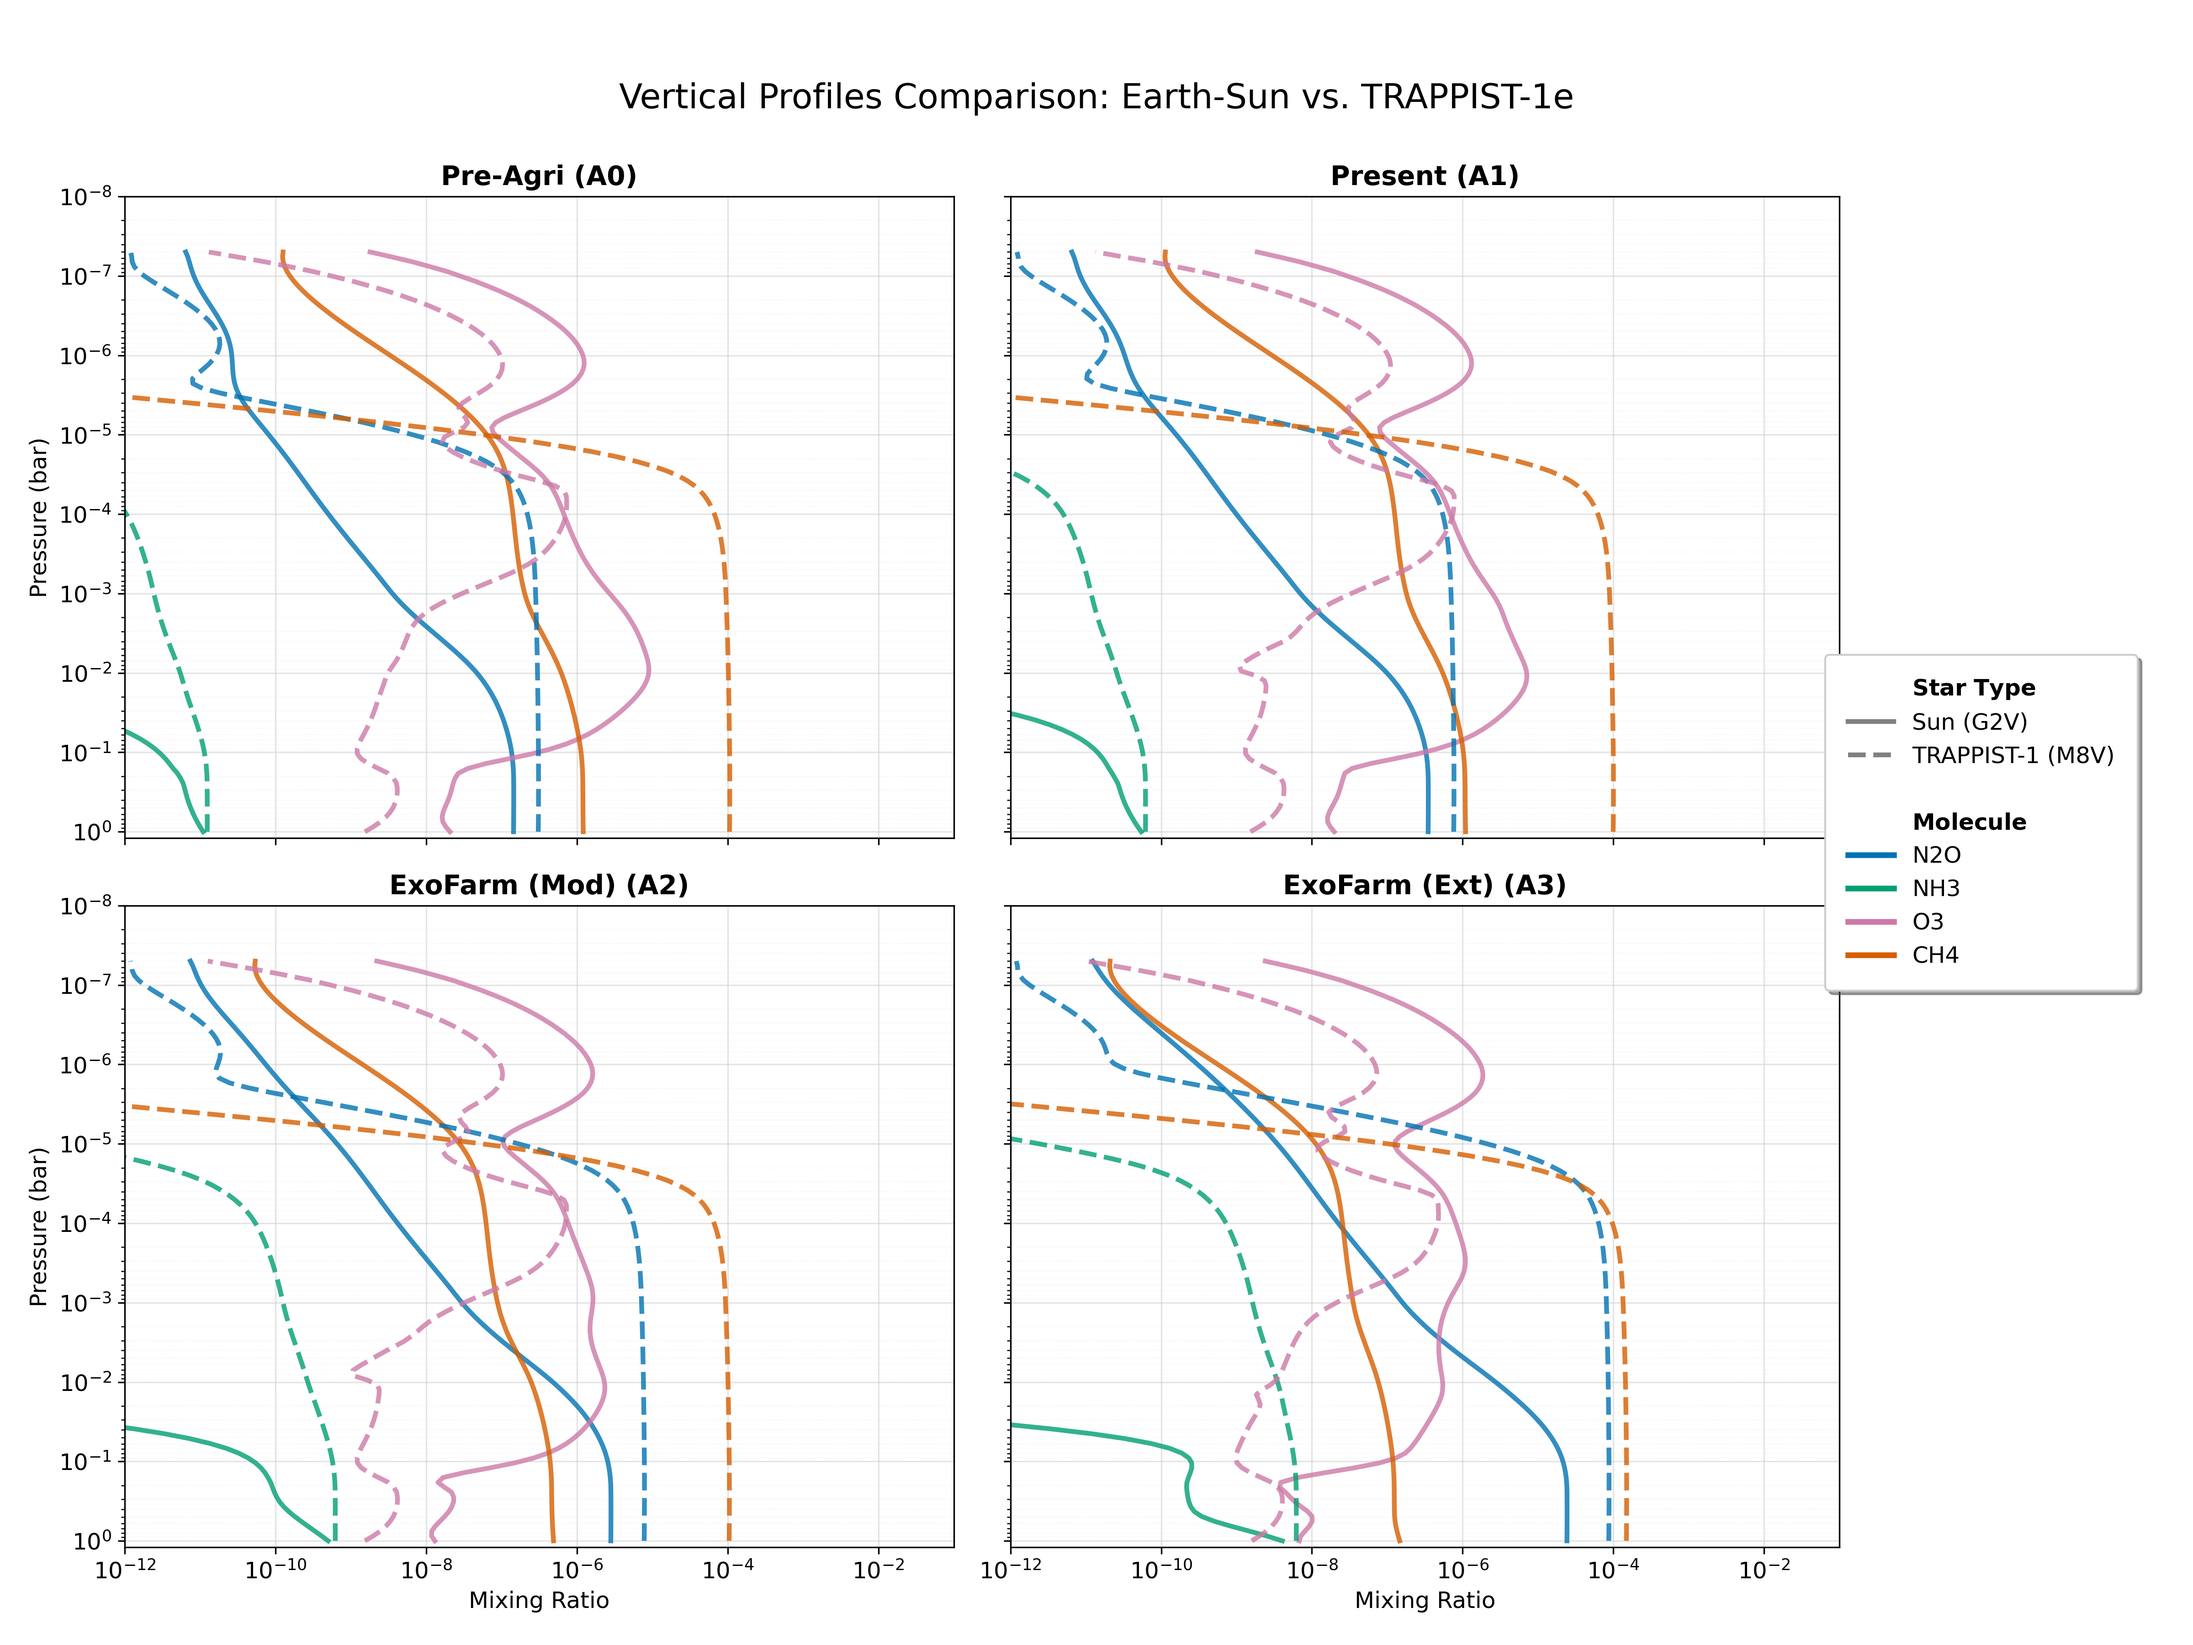
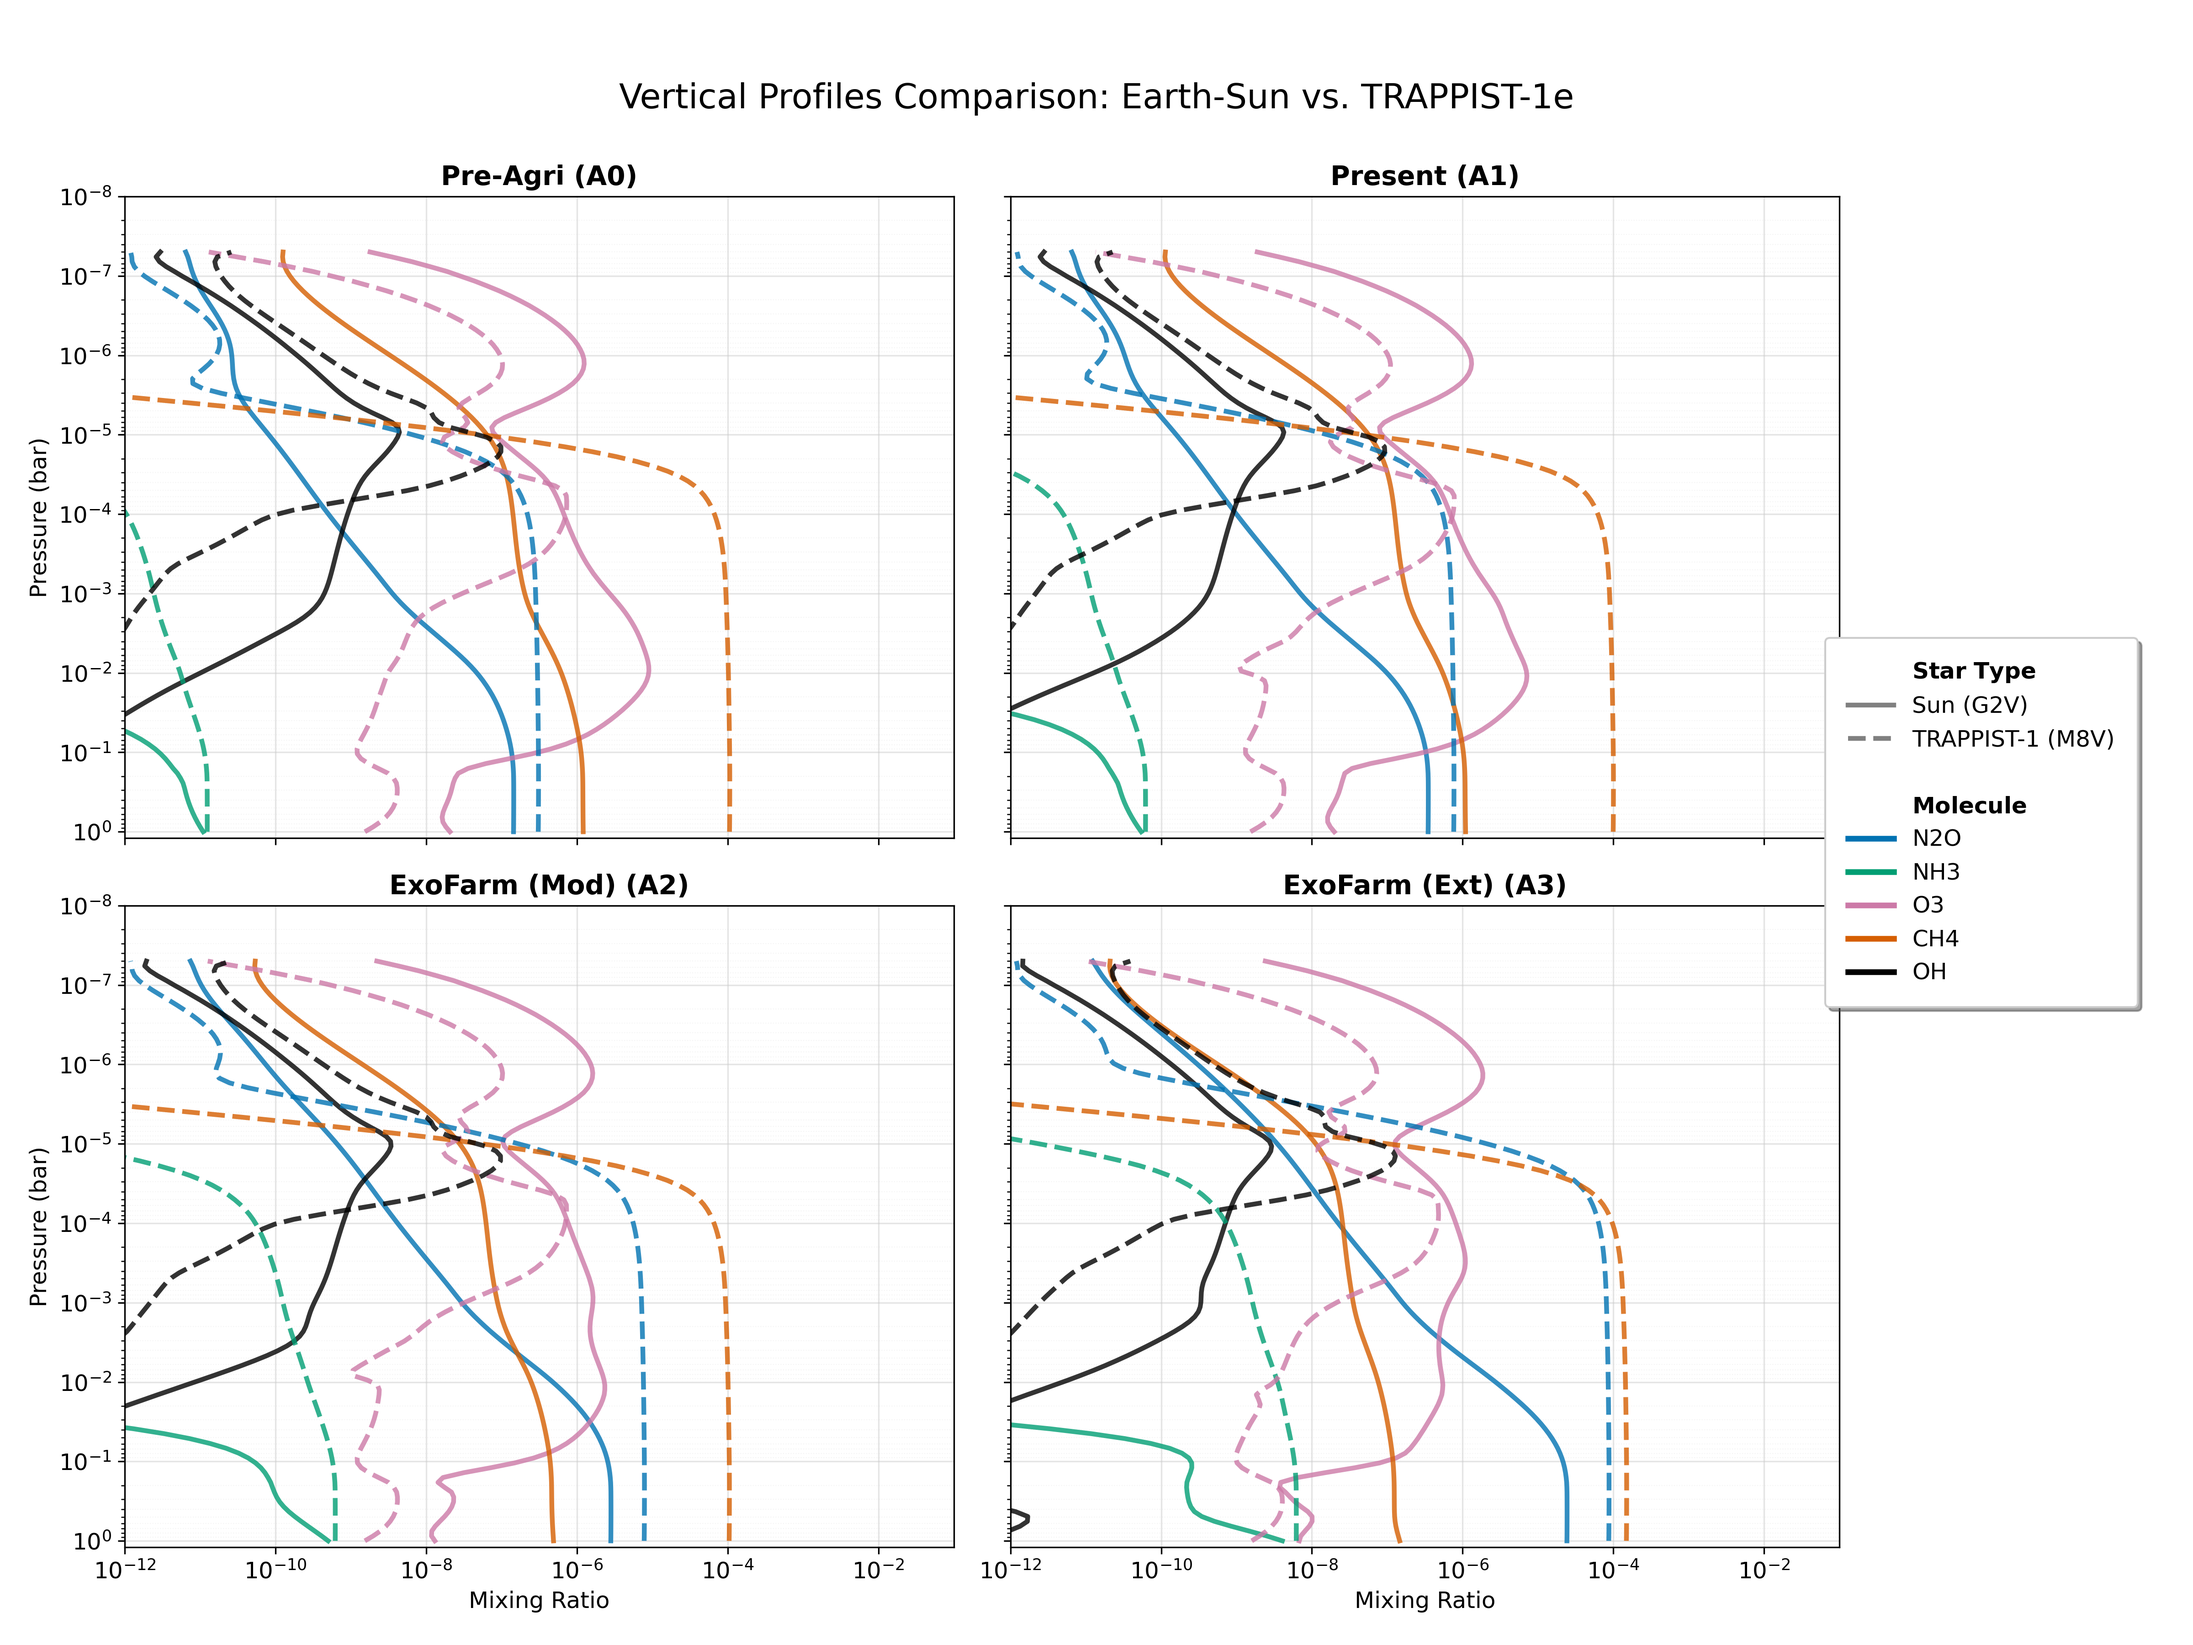
Update project structure: remove sulfur, refine plots, update docs

diff --git a/ExoFarm_Research/Scripts/Plotting/plot_star_comparison.py b/ExoFarm_Research/Scripts/Plotting/plot_star_comparison.py
@@ -5,8 +5,9 @@ import os
 from matplotlib.lines import Line2D
 
 # Configuration
-output_dir = '../../Results/Outputs/'
-plot_dir = '../../Results/Plots/'
+script_dir = os.path.dirname(os.path.abspath(__file__))
+output_dir = os.path.join(script_dir, '../../Results/Outputs/')
+plot_dir = os.path.join(script_dir, '../../Results/Plots/')
 if not os.path.exists(plot_dir):
     os.makedirs(plot_dir)
 
@@ -28,13 +29,14 @@ colors = {'Sun': '#E69F00', 'Trappist': '#56B4E9'}
 linestyles = {'Sun': '-', 'Trappist': '--'}
 
 # Molecules list and colors
-molecules = ['N2O', 'NH3', 'O3', 'CH4']
+molecules = ['N2O', 'NH3', 'O3', 'CH4', 'OH']
 # Molecules: distinct colors
 mol_colors = {
     'N2O': '#0072B2',  # Blue
     'NH3': '#009E73',  # Green
     'O3':  '#CC79A7',  # Reddish Purple
-    'CH4': '#D55E00'   # Vermillion
+    'CH4': '#D55E00',  # Vermillion
+    'OH':  '#000000'   # Black
 }
 
 def load_vulcan_output(filepath):
@@ -140,12 +142,13 @@ def calc_pressure_weighted_mean(data, species):
 
 # --- Plot 2: Trends (Scatter - 4 Subplots) ---
 # 4 molecules -> 2 rows x 2 columns layout
+molecules_trends = ['N2O', 'NH3', 'O3', 'CH4']
 fig2, axes2 = plt.subplots(2, 2, figsize=(14, 10), sharex=True)
 axes2 = axes2.flatten()
 fig2.suptitle("Abundance Trends: Agriculture Intensity vs Star Type", fontsize=18, y=0.98)
 
 # Prepare data
-trends = {star: {mol: [] for mol in molecules} for star in stars}
+trends = {star: {mol: [] for mol in molecules_trends} for star in stars}
 
 for i, scenario in enumerate(scenarios):
     for star in stars:
@@ -160,7 +163,7 @@ for i, scenario in enumerate(scenarios):
         filepath = os.path.join(output_dir, filename)
         data = load_vulcan_output(filepath)
         
-        for mol in molecules:
+        for mol in molecules_trends:
             val = np.nan
             if data is not None:
                  val = calc_pressure_weighted_mean(data, mol)
@@ -169,7 +172,7 @@ for i, scenario in enumerate(scenarios):
 x_indices = np.arange(len(scenarios))
 
 # Plot for each molecule
-for i, mol in enumerate(molecules):
+for i, mol in enumerate(molecules_trends):
     ax = axes2[i]
     ax.set_title(f"{mol}", fontsize=14, fontweight='bold', color=mol_colors[mol])
     ax.set_yscale('log')
@@ -197,6 +200,11 @@ for i, mol in enumerate(molecules):
     ref_val = trends['Sun'][mol][1]
     if not np.isnan(ref_val):
         ax.axhline(ref_val, color='gray', linestyle=':', alpha=0.6, linewidth=2)
+
+# Hide the last empty subplot (index 5)
+if len(molecules_trends) < 4:
+    for j in range(len(molecules_trends), 4):
+        fig2.delaxes(axes2[j])
 
 # Hide empty subplot (if any)
 # axes2[5].axis('off')

diff --git a/ExoFarm_Research/Scripts/Plotting/run_all_plots.py b/ExoFarm_Research/Scripts/Plotting/run_all_plots.py
@@ -4,10 +4,11 @@ import sys
 
 def run_script(script_name):
     """Runs a python script and handles errors."""
-    script_path = os.path.join(os.path.dirname(__file__), script_name)
+    script_dir = os.path.dirname(os.path.abspath(__file__))
+    script_path = os.path.join(script_dir, script_name)
     print(f"--- Running {script_name} ---")
     try:
-        result = subprocess.run([sys.executable, script_path], check=True, capture_output=True, text=True)
+        result = subprocess.run([sys.executable, script_path], cwd=script_dir, check=True, capture_output=True, text=True)
         print(result.stdout)
         print(f"Successfully ran {script_name}\n")
     except subprocess.CalledProcessError as e:
@@ -23,7 +24,6 @@ def main():
         "plot_trappist_comparison.py",
         "plot_surface_normalized_bars.py",
         "plot_star_comparison.py",
-        "plot_OH_comparison.py",
         "plot_spectra_comparison.py"
     ]
     

diff --git a/README.md b/README.md
@@ -13,6 +13,9 @@ The study compares two distinct stellar environments:
 
 Our goal is to quantify how the different UV flux environments affect the photochemical lifetime of these agricultural gases, determining whether "ExoFarms" could provide a detectable technosignature distinct from natural biological baselines.
 
+**Chemical Network Note:**
+All simulations use the `thermo/NCHO_earth_photo_network.txt` chemical network. This configuration excludes sulfur species to focus purely on the Nitrogen-Carbon-Hydrogen-Oxygen chemistry relevant to the simulated biosignatures.
+
 ---
 
 ## Directory Structure
@@ -44,8 +47,7 @@ Scripts to generate visualizations.
 - `run_all_plots.py`: **Master script** that executes all relevant plotting scripts in sequence.
 - `plot_agricultural_comparison.py`: Generates comparisons of agricultural scenarios (Earth, 4 molecules).
 - `plot_trappist_comparison.py`: Generates comparisons of agricultural scenarios (TRAPPIST-1e, 4 molecules).
-- `plot_star_comparison.py`: Plots comparative profiles and trends for Earth vs TRAPPIST (4 molecules).
-- `plot_OH_comparison.py`: Dedicated analysis for OH radical profiles and trends.
+- `plot_star_comparison.py`: Plots comparative profiles (including OH) and trends (4 molecules) for Earth vs TRAPPIST.
 - `plot_spectra_comparison.py`: Compares stellar spectra.
 - `plot_surface_normalized_bars.py`: Generates bar charts of normalized abundances.
 
@@ -96,11 +98,9 @@ This will generate:
 1. `agricultural_comparison.png`: Vertical profiles for Earth (N2O, NH3, O3, CH4).
 2. `trappist_comparison.png`: Vertical profiles for TRAPPIST-1e (N2O, NH3, O3, CH4).
 3. `surface_normalization_bars.png`: Normalized surface abundances vs Earth A1.
-4. `star_comparison_profiles.png`: Comparative profiles (no OH).
-5. `star_comparison_trends.png`: Abundance trends (no OH).
-6. `star_comparison_profiles_OH.png`: Comparative profiles (OH only).
-7. `star_comparison_trends_OH.png`: Abundance trends (OH only).
-8. `stellar_spectra_comparison.png`: Input stellar spectra.
+4. `star_comparison_profiles.png`: Comparative profiles (N2O, NH3, O3, CH4 + OH).
+5. `star_comparison_trends.png`: Abundance trends (N2O, NH3, O3, CH4).
+6. `stellar_spectra_comparison.png`: Input stellar spectra.
 
 ### View Result Tables
 To view abundance tables in the terminal:
@@ -109,18 +109,7 @@ cd ExoFarm_Research/Scripts/Analysis
 python extract_surface_values.py
 ```
 
----
-
 ## Requirements
 - Python 3.x
-- Libraries: `numpy`, `matplotlib`, `scipy`
-- VULCAN Model (must be present in the root `VULCAN/` directory)
-
----
-
-## References
-
-*   **VULCAN Model**: Tsai, S.-M., et al. (2017). *VULCAN: An Open-source, Validated Chemical Kinetics Code for Exoplanetary Atmospheres*. [[DOI: 10.3847/1538-4365/aa51dd](https://doi.org/10.3847/1538-4365/aa51dd)]
-*   **Nitrogen Cycle & ExoFarms**: Haqq-Misra, et al. (2022). *Disruption of a Planetary Nitrogen Cycle as Evidence of Extraterrestrial Agriculture*. The Astrophysical Journal Letters, 929, L28. [[DOI: 10.3847/2041-8213/ac65ff](https://doi.org/10.3847/2041-8213/ac65ff)]
-*   **Biosignatures Review**: Schwieterman, E. W., et al. (2018). *Exoplanet Biosignatures: A Review of Remotely Detectable Signs of Life*. [[DOI: 10.1089/ast.2017.1729](https://doi.org/10.1089/ast.2017.1729)]
-*   **TRAPPIST-1 Spectrum**: Wilson, D. J., et al. (2021). *The stellar spectrum of TRAPPIST-1*. (Mega-MUSCLES).
+- Libraries: `numpy`, `matplotlib`, `scipy`, `pandas`
+- VULCAN (configured in the parent directory)
